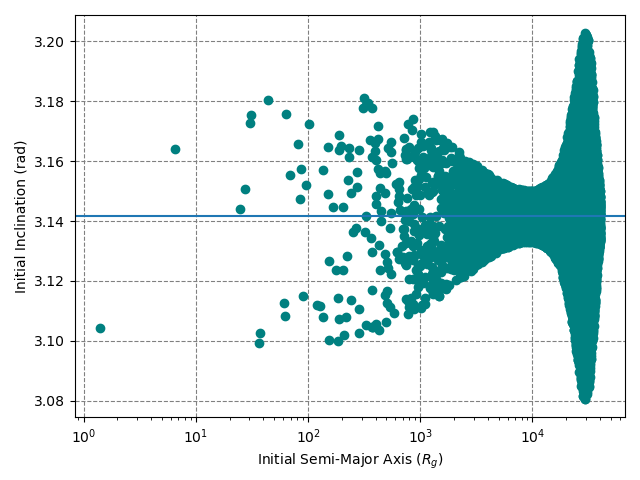
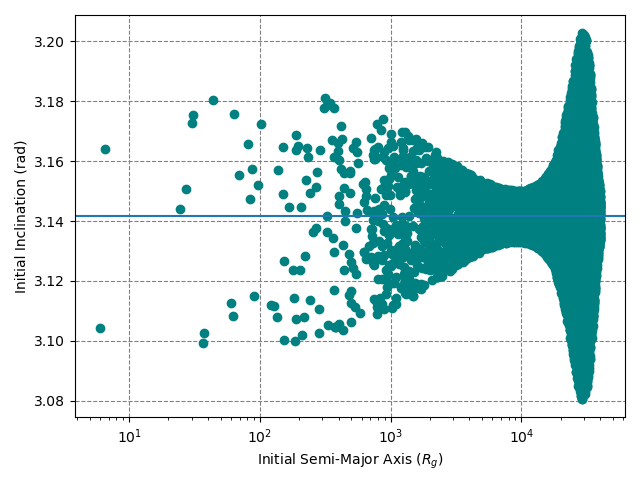
fixed bug in setup to limit smallest semi-major axis

diff --git a/src/mcfacts/setup/setupdiskblackholes.py b/src/mcfacts/setup/setupdiskblackholes.py
@@ -3,8 +3,11 @@ import numpy as np
 
 def setup_disk_blackholes_location(rng, n_bh, disk_outer_radius):
     #Return an array of BH locations distributed randomly uniformly in disk
+    isco_radius = 6.0
     integer_nbh = int(n_bh)
     bh_initial_locations = disk_outer_radius*rng.random(integer_nbh)
+    sma_too_small = np.where(bh_initial_locations<isco_radius)
+    bh_initial_locations[sma_too_small] = isco_radius
     return bh_initial_locations
 
 def setup_prior_blackholes_indices(rng, prograde_n_bh, prior_bh_locations):
